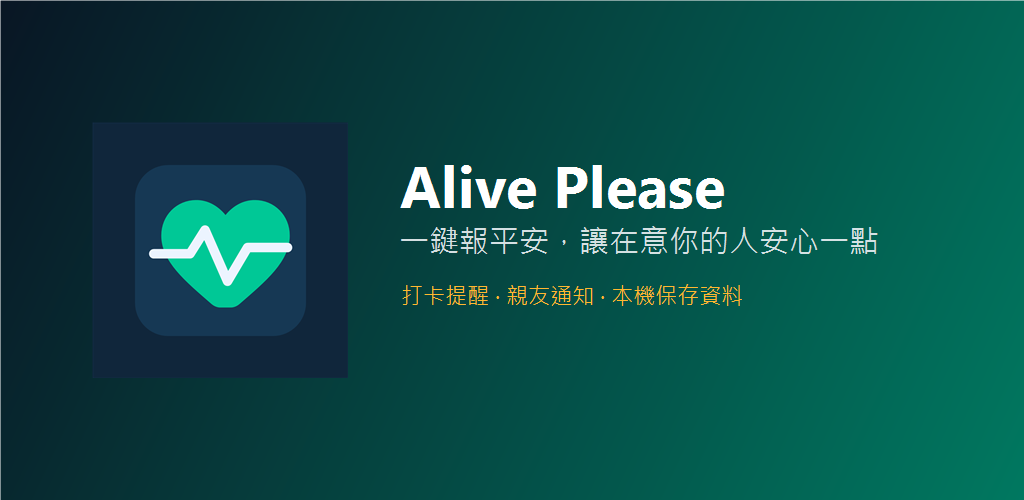
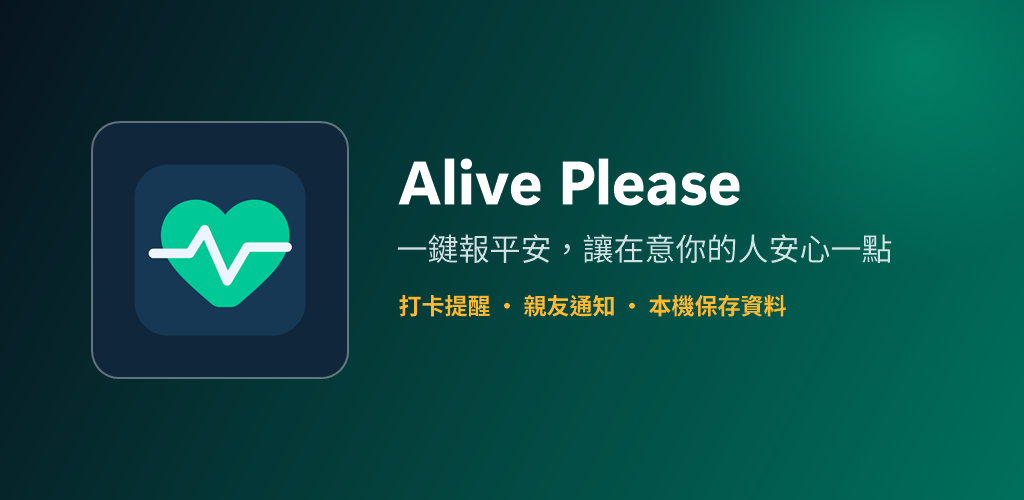
Add Play Store listing assets

diff --git a/play-store/render-tablet-assets.html b/play-store/render-tablet-assets.html
@@ -1,0 +1,149 @@
+<!doctype html>
+<html lang="zh-Hant">
+<head>
+  <meta charset="utf-8">
+  <meta name="viewport" content="width=device-width, initial-scale=1">
+  <title>Alive Please Tablet Store Asset</title>
+  <style>
+    :root {
+      color-scheme: dark;
+      font-family: "Noto Sans TC", "Microsoft JhengHei UI", "Segoe UI", sans-serif;
+      --bg: #061421;
+      --bg2: #005c4e;
+      --text: #f4fbff;
+      --muted: rgba(232, 244, 246, 0.84);
+      --accent: #ffb830;
+      --green: #00c896;
+    }
+
+    * {
+      box-sizing: border-box;
+    }
+
+    body {
+      margin: 0;
+      width: 1920px;
+      height: 1080px;
+      overflow: hidden;
+      background:
+        radial-gradient(circle at 8% 88%, rgba(0, 200, 150, 0.24), transparent 28%),
+        radial-gradient(circle at 84% 10%, rgba(77, 255, 200, 0.18), transparent 30%),
+        linear-gradient(120deg, var(--bg), #082135 48%, var(--bg2));
+      color: var(--text);
+    }
+
+    .stage {
+      width: 100%;
+      height: 100%;
+      display: grid;
+      grid-template-columns: 560px 1fr;
+      gap: 42px;
+      align-items: center;
+      padding: 88px 82px 88px 96px;
+    }
+
+    .copy {
+      align-self: stretch;
+      display: flex;
+      flex-direction: column;
+      justify-content: center;
+      min-width: 0;
+    }
+
+    .eyebrow {
+      width: fit-content;
+      border: 1px solid rgba(255, 255, 255, 0.18);
+      border-radius: 999px;
+      padding: 11px 18px 12px;
+      background: rgba(255, 255, 255, 0.08);
+      color: var(--accent);
+      font-size: 24px;
+      font-weight: 700;
+      letter-spacing: 0;
+    }
+
+    h1 {
+      margin: 30px 0 22px;
+      max-width: 540px;
+      color: var(--text);
+      font-size: 72px;
+      line-height: 1.16;
+      letter-spacing: 0;
+      font-weight: 900;
+    }
+
+    p {
+      margin: 0;
+      max-width: 535px;
+      color: var(--muted);
+      font-size: 34px;
+      line-height: 1.52;
+      letter-spacing: 0;
+      font-weight: 400;
+    }
+
+    .screen-wrap {
+      justify-self: stretch;
+      display: flex;
+      align-items: center;
+      justify-content: center;
+      min-width: 0;
+    }
+
+    .screen {
+      max-width: 100%;
+      max-height: 902px;
+      border-radius: 34px;
+      border: 2px solid rgba(255, 255, 255, 0.22);
+      background: rgba(6, 20, 33, 0.82);
+      box-shadow:
+        0 34px 90px rgba(0, 0, 0, 0.35),
+        0 0 0 10px rgba(255, 255, 255, 0.04);
+      object-fit: contain;
+    }
+  </style>
+</head>
+<body>
+  <main class="stage">
+    <section class="copy">
+      <div class="eyebrow">Alive Please</div>
+      <h1 id="title"></h1>
+      <p id="subtitle"></p>
+    </section>
+    <section class="screen-wrap">
+      <img id="screen" class="screen" alt="">
+    </section>
+  </main>
+
+  <script>
+    const slides = {
+      "1": {
+        image: "tablet_01.png",
+        title: "一鍵報平安",
+        subtitle: "每天按一下，記錄自己的平安狀態。"
+      },
+      "2": {
+        image: "tablet_02.png",
+        title: "太久未打卡時",
+        subtitle: "先提醒你，再通知信任的人。"
+      },
+      "3": {
+        image: "tablet_03.png",
+        title: "通知節奏自己決定",
+        subtitle: "提醒時間、親友 Email、安靜時段都能調整。"
+      },
+      "4": {
+        image: "tablet_04.png",
+        title: "第一次使用也清楚",
+        subtitle: "跟著導覽完成重要設定。"
+      }
+    };
+
+    const index = new URLSearchParams(window.location.search).get("i") || "1";
+    const slide = slides[index] || slides["1"];
+    document.getElementById("title").textContent = slide.title;
+    document.getElementById("subtitle").textContent = slide.subtitle;
+    document.getElementById("screen").src = slide.image;
+  </script>
+</body>
+</html>

diff --git a/app/src/main/java/com/orenhui/aliveplease/ui/MainScreen.kt b/app/src/main/java/com/orenhui/aliveplease/ui/MainScreen.kt
@@ -28,6 +28,7 @@ import androidx.compose.foundation.layout.height
 import androidx.compose.foundation.layout.padding
 import androidx.compose.foundation.layout.size
 import androidx.compose.foundation.layout.width
+import androidx.compose.foundation.layout.widthIn
 import androidx.compose.foundation.rememberScrollState
 import androidx.compose.foundation.shape.CircleShape
 import androidx.compose.foundation.shape.RoundedCornerShape
@@ -369,9 +370,17 @@ fun MainScreen(
 
                 Spacer(modifier = Modifier.height(16.dp))
 
-                com.orenhui.aliveplease.ui.components.CalendarView(
-                    checkInDates = uiState.checkInDates
-                )
+                Box(
+                    modifier = Modifier.fillMaxWidth(),
+                    contentAlignment = Alignment.Center
+                ) {
+                    com.orenhui.aliveplease.ui.components.CalendarView(
+                        checkInDates = uiState.checkInDates,
+                        modifier = Modifier
+                            .widthIn(max = 640.dp)
+                            .fillMaxWidth()
+                    )
+                }
 
                 Spacer(modifier = Modifier.height(24.dp))
             }

diff --git a/app/src/main/java/com/orenhui/aliveplease/ui/components/CalendarView.kt b/app/src/main/java/com/orenhui/aliveplease/ui/components/CalendarView.kt
@@ -36,7 +36,7 @@ fun CalendarView(
     val month = currentMonth.get(Calendar.MONTH)
     val daysInMonth = currentMonth.getActualMaximum(Calendar.DAY_OF_MONTH)
     val firstDayOfWeek = currentMonth.get(Calendar.DAY_OF_WEEK)
-    val dateFormat = SimpleDateFormat("yyyy-MM-dd", Locale.getDefault())
+    val dateFormat = SimpleDateFormat("yyyy-MM-dd", Locale.US)
     val todayString = dateFormat.format(Date())
 
     // 當月打卡天數